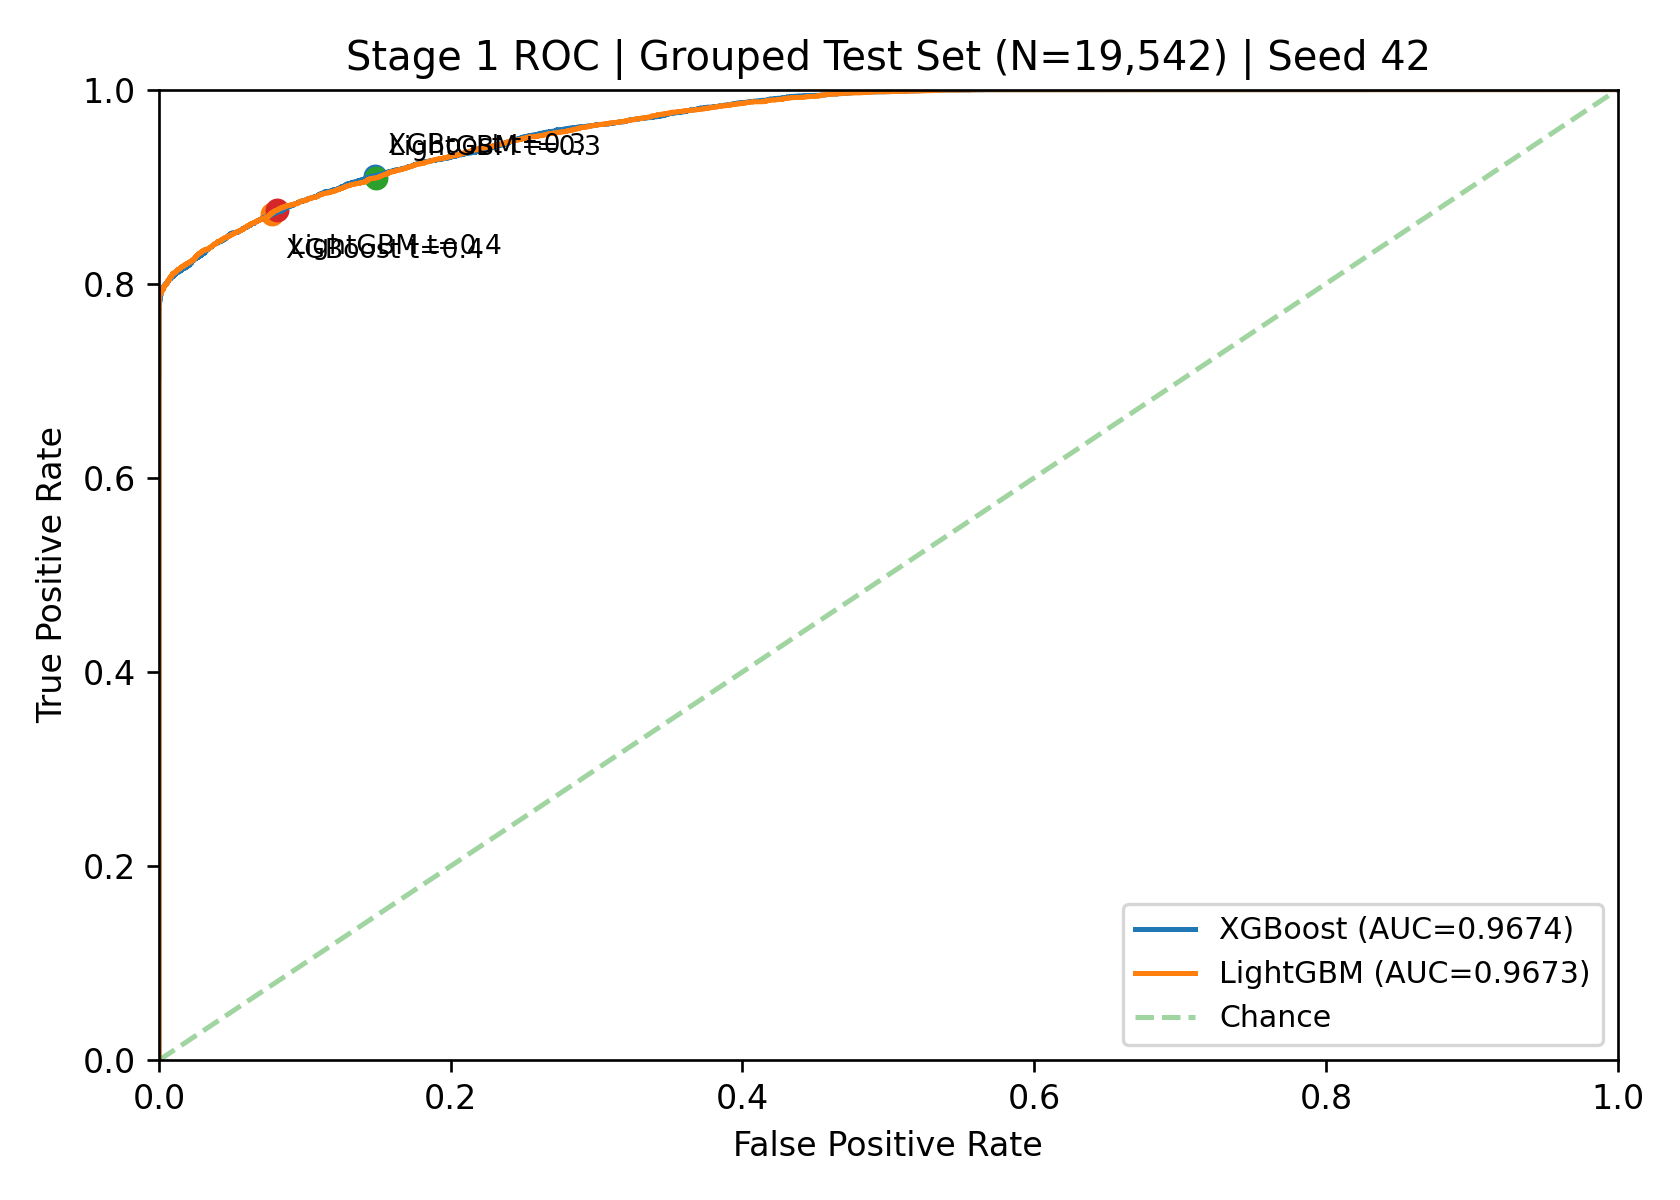
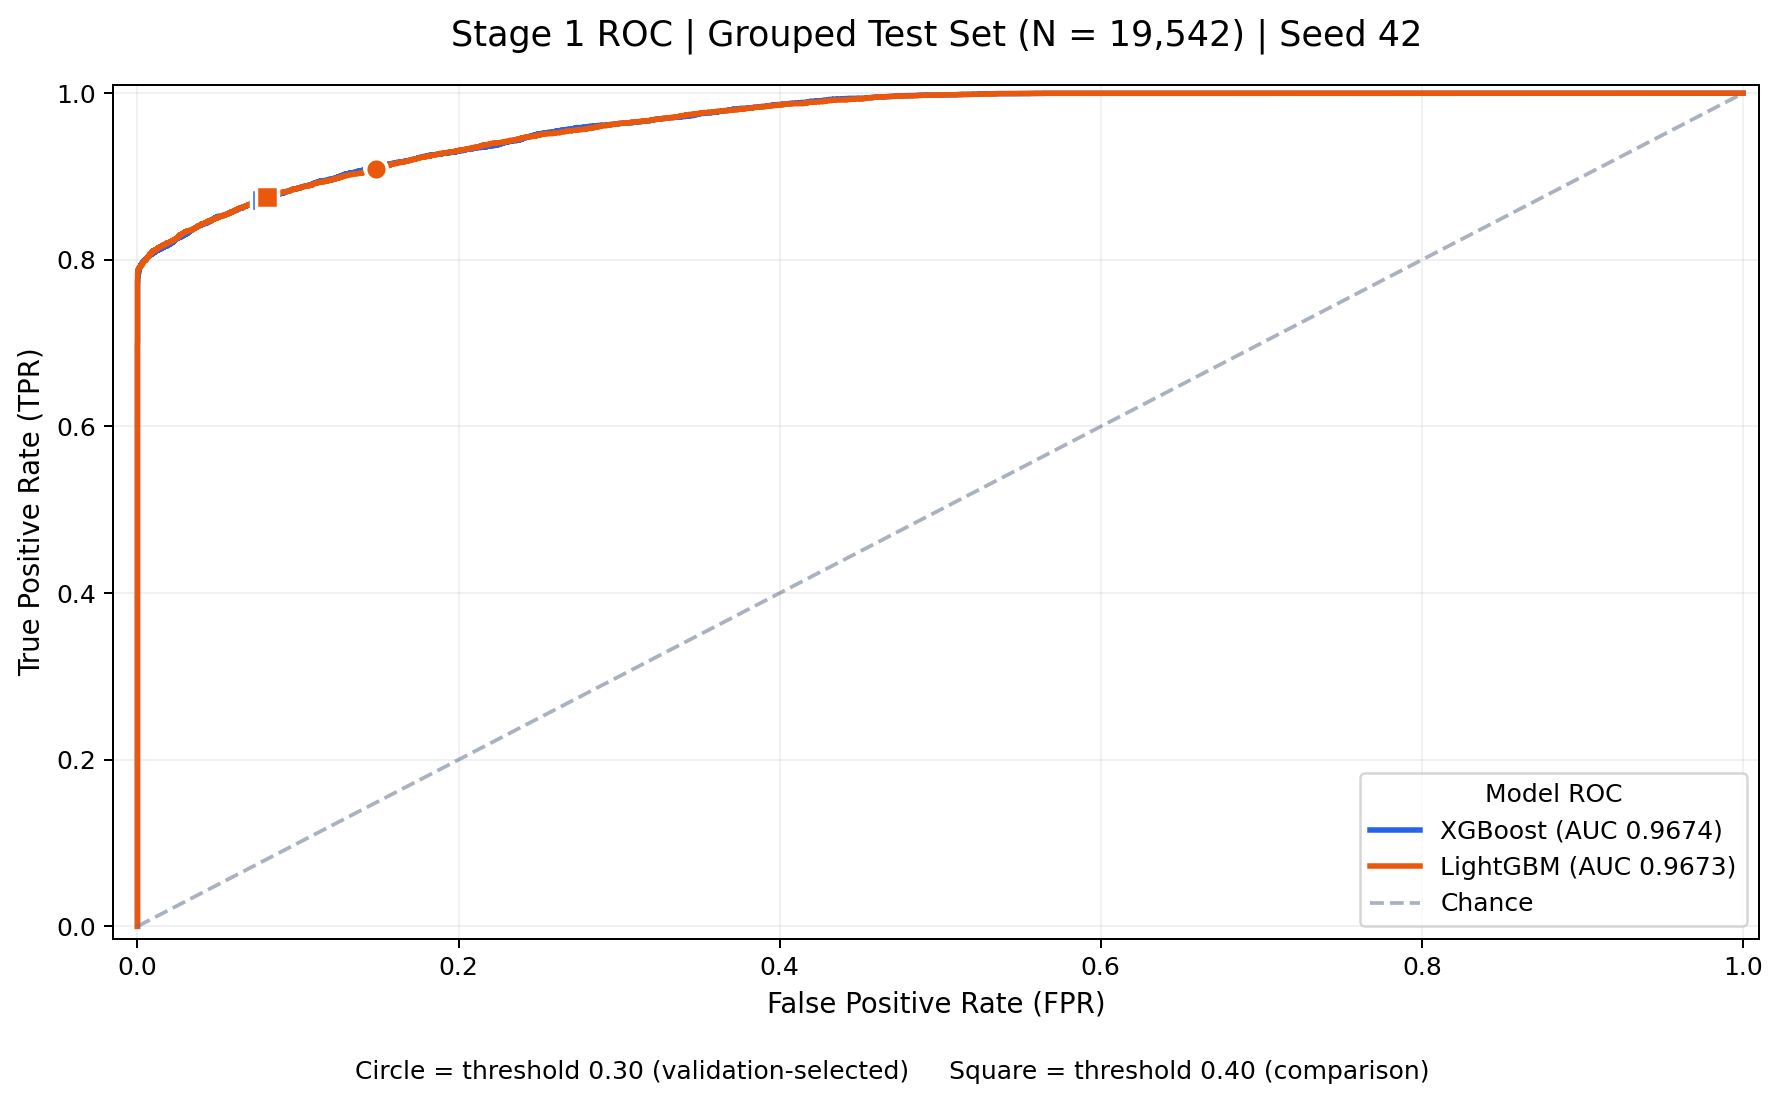
Fix ZIP download and clarify ROC operating points

diff --git a/app.py b/app.py
@@ -327,6 +327,10 @@ with tab_evidence:
     st.caption("FedAvg is a separate MLP experiment, not a model used for webpage predictions. Centralized and FL optimization procedures differ.")
     st.subheader("Stage 1 ROC at multiple thresholds")
     st.image(str(base/"FIG2_ROC_GROUPED_VALIDATED_SEED42.png"),width="stretch")
+    st.caption("วงกลม = Threshold 0.30 ที่เลือกจาก Validation; สี่เหลี่ยม = Threshold 0.40 ใช้เปรียบเทียบ. จุดแต่ละโมเดลอยู่ใกล้กันตามค่าจริง")
+    points=pd.read_csv(base/"FIG2_OPERATING_POINTS.csv")
+    st.dataframe(points[["model","stage1_binary_threshold","stage1_FPR","stage1_TPR","roc_auc"]].round(4),hide_index=True,width="stretch")
+    st.caption("ROC แสดง Stage 1 (Binary Attack/Benign) บน Test ชุดเดียวกัน ไม่ใช่ ROC ของ Stage 2 หรือ UnknownAttack")
     st.caption("Dataset split grouping by identical numerical feature hashes does not establish day/session independence. Results have not demonstrated statistically significant superiority.")
 
 def iter_upload(file):
@@ -345,6 +349,11 @@ with tab_detect:
     uploaded=st.file_uploader(T["upload_file"],type=["csv","parquet"],key="big_upload")
     if uploaded is None:
         st.info(T["upload_info"])
+        with st.expander("รูปแบบไฟล์ที่รองรับ / Required input schema"):
+            st.write("ต้องมีคอลัมน์ Numeric Network-flow Features 77 ตัวตาม CSE-CIC-IDS2018")
+            st.write("คอลัมน์ Label หรือ target_group ไม่จำเป็นต่อการทำนาย แต่จำเป็นสำหรับคำนวณ Accuracy / F1")
+            st.write("ไฟล์ CSV / Parquet ขนาดสูงสุด 250 MB ต่อไฟล์; ประมวลผลทีละ 5,000 แถว และดาวน์โหลดผลทั้งไฟล์เป็น ZIP")
+            st.write("Features ที่ต้องมี:", ", ".join(prep["columns"]))
     else:
         try:
             # Build one compressed prediction CSV incrementally, avoiding retaining full datasets.
@@ -393,6 +402,8 @@ with tab_detect:
                         else:
                             bar.progress(min(.99,(total%100000)/100000),text=f"Processed {total:,} flows")
             bar.progress(1.0,text=f"Completed {total:,} flows")
+            st.success(f"ประมวลผลสำเร็จ {total:,} แถว / Processed {total:,} rows")
+            st.caption(f"ใช้โมเดล {chosen}; Binary threshold {binary_threshold:.2f}; Unknown threshold {unknown_threshold:.2f}; อินพุตมี {len(prep['columns'])} คุณลักษณะที่ต้องการครบ")
             if not total:
                 st.error("No rows to process")
             else:
@@ -450,8 +461,19 @@ with tab_detect:
                     st.info(T["no_label"])
                 st.subheader(T["prediction_results"])
                 st.dataframe(preview.head(10),width="stretch")
+                # Streamlit download_button requires binary bytes or an accepted IO object.
+                # tempfile.TemporaryFile is not an accepted data type, so read the ZIP
+                # into bytes after streaming the CSV to disk; close the temp file.
                 compressed.seek(0)
-                st.download_button("Download complete predictions (ZIP with CSV)",data=compressed,file_name="ids_predictions.zip",mime="application/zip")
+                zip_bytes=compressed.read()
+                compressed.close()
+                st.download_button(
+                    "Download complete predictions (ZIP with CSV)",
+                    data=zip_bytes,
+                    file_name="ids_predictions.zip",
+                    mime="application/zip",
+                    on_click="ignore",
+                )
                 st.caption("ZIP includes the original columns and prediction outputs for every uploaded row; the table above displays only a preview to reduce memory.")
         except Exception as error:
             st.error(f"Input or prediction error: {error}")
